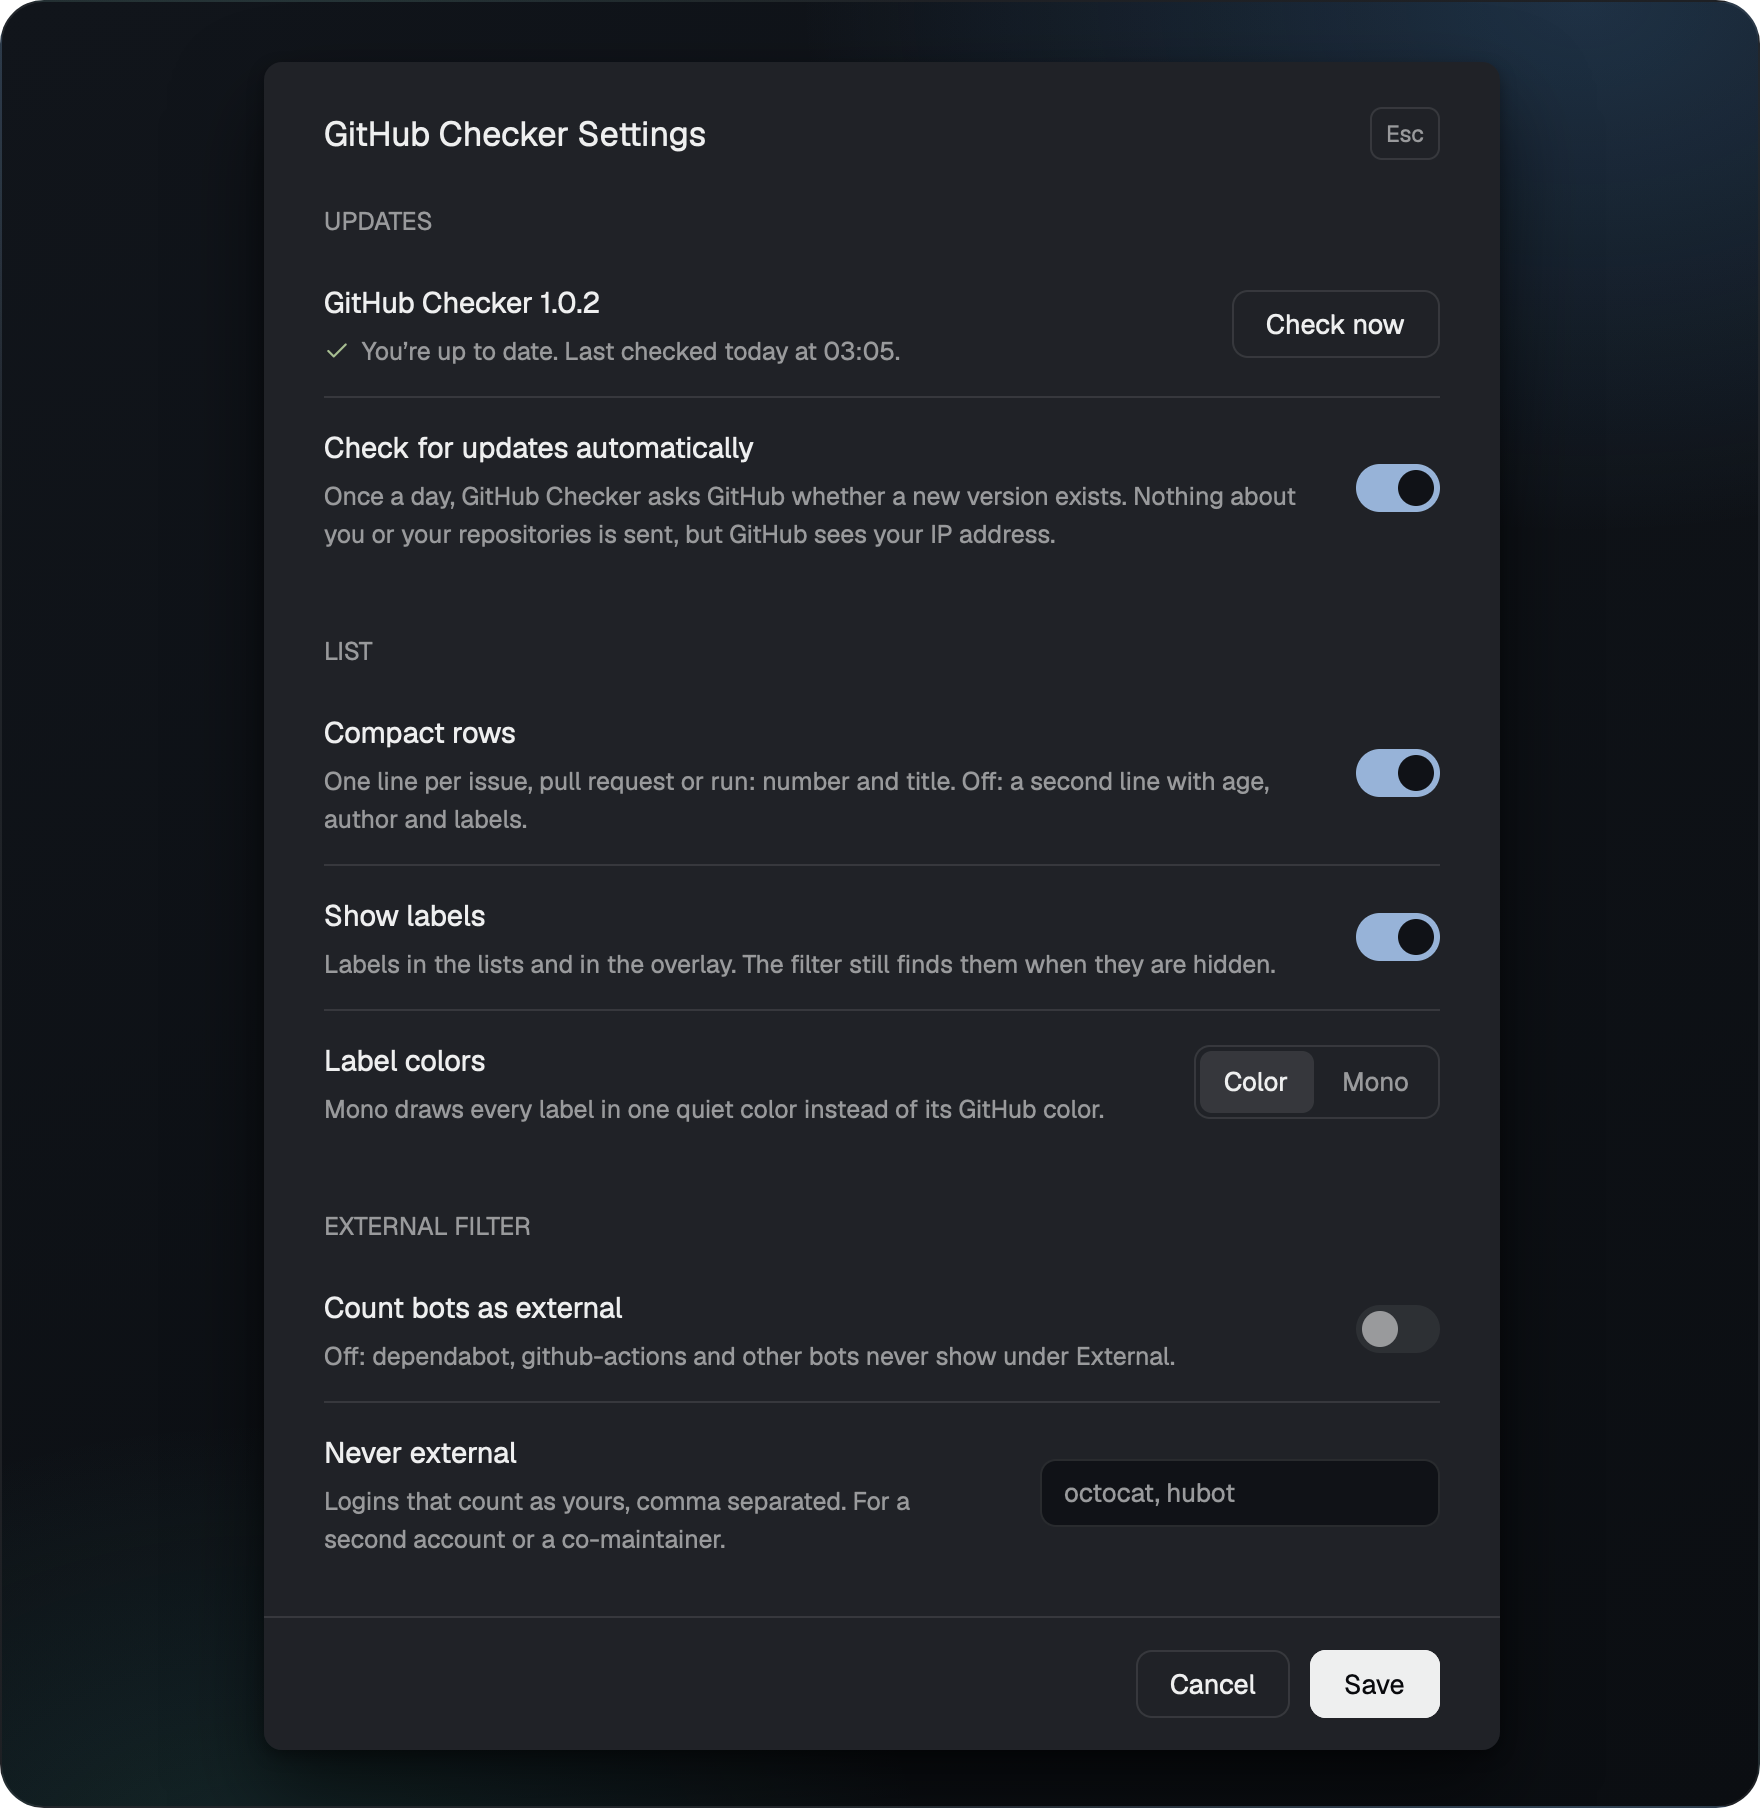
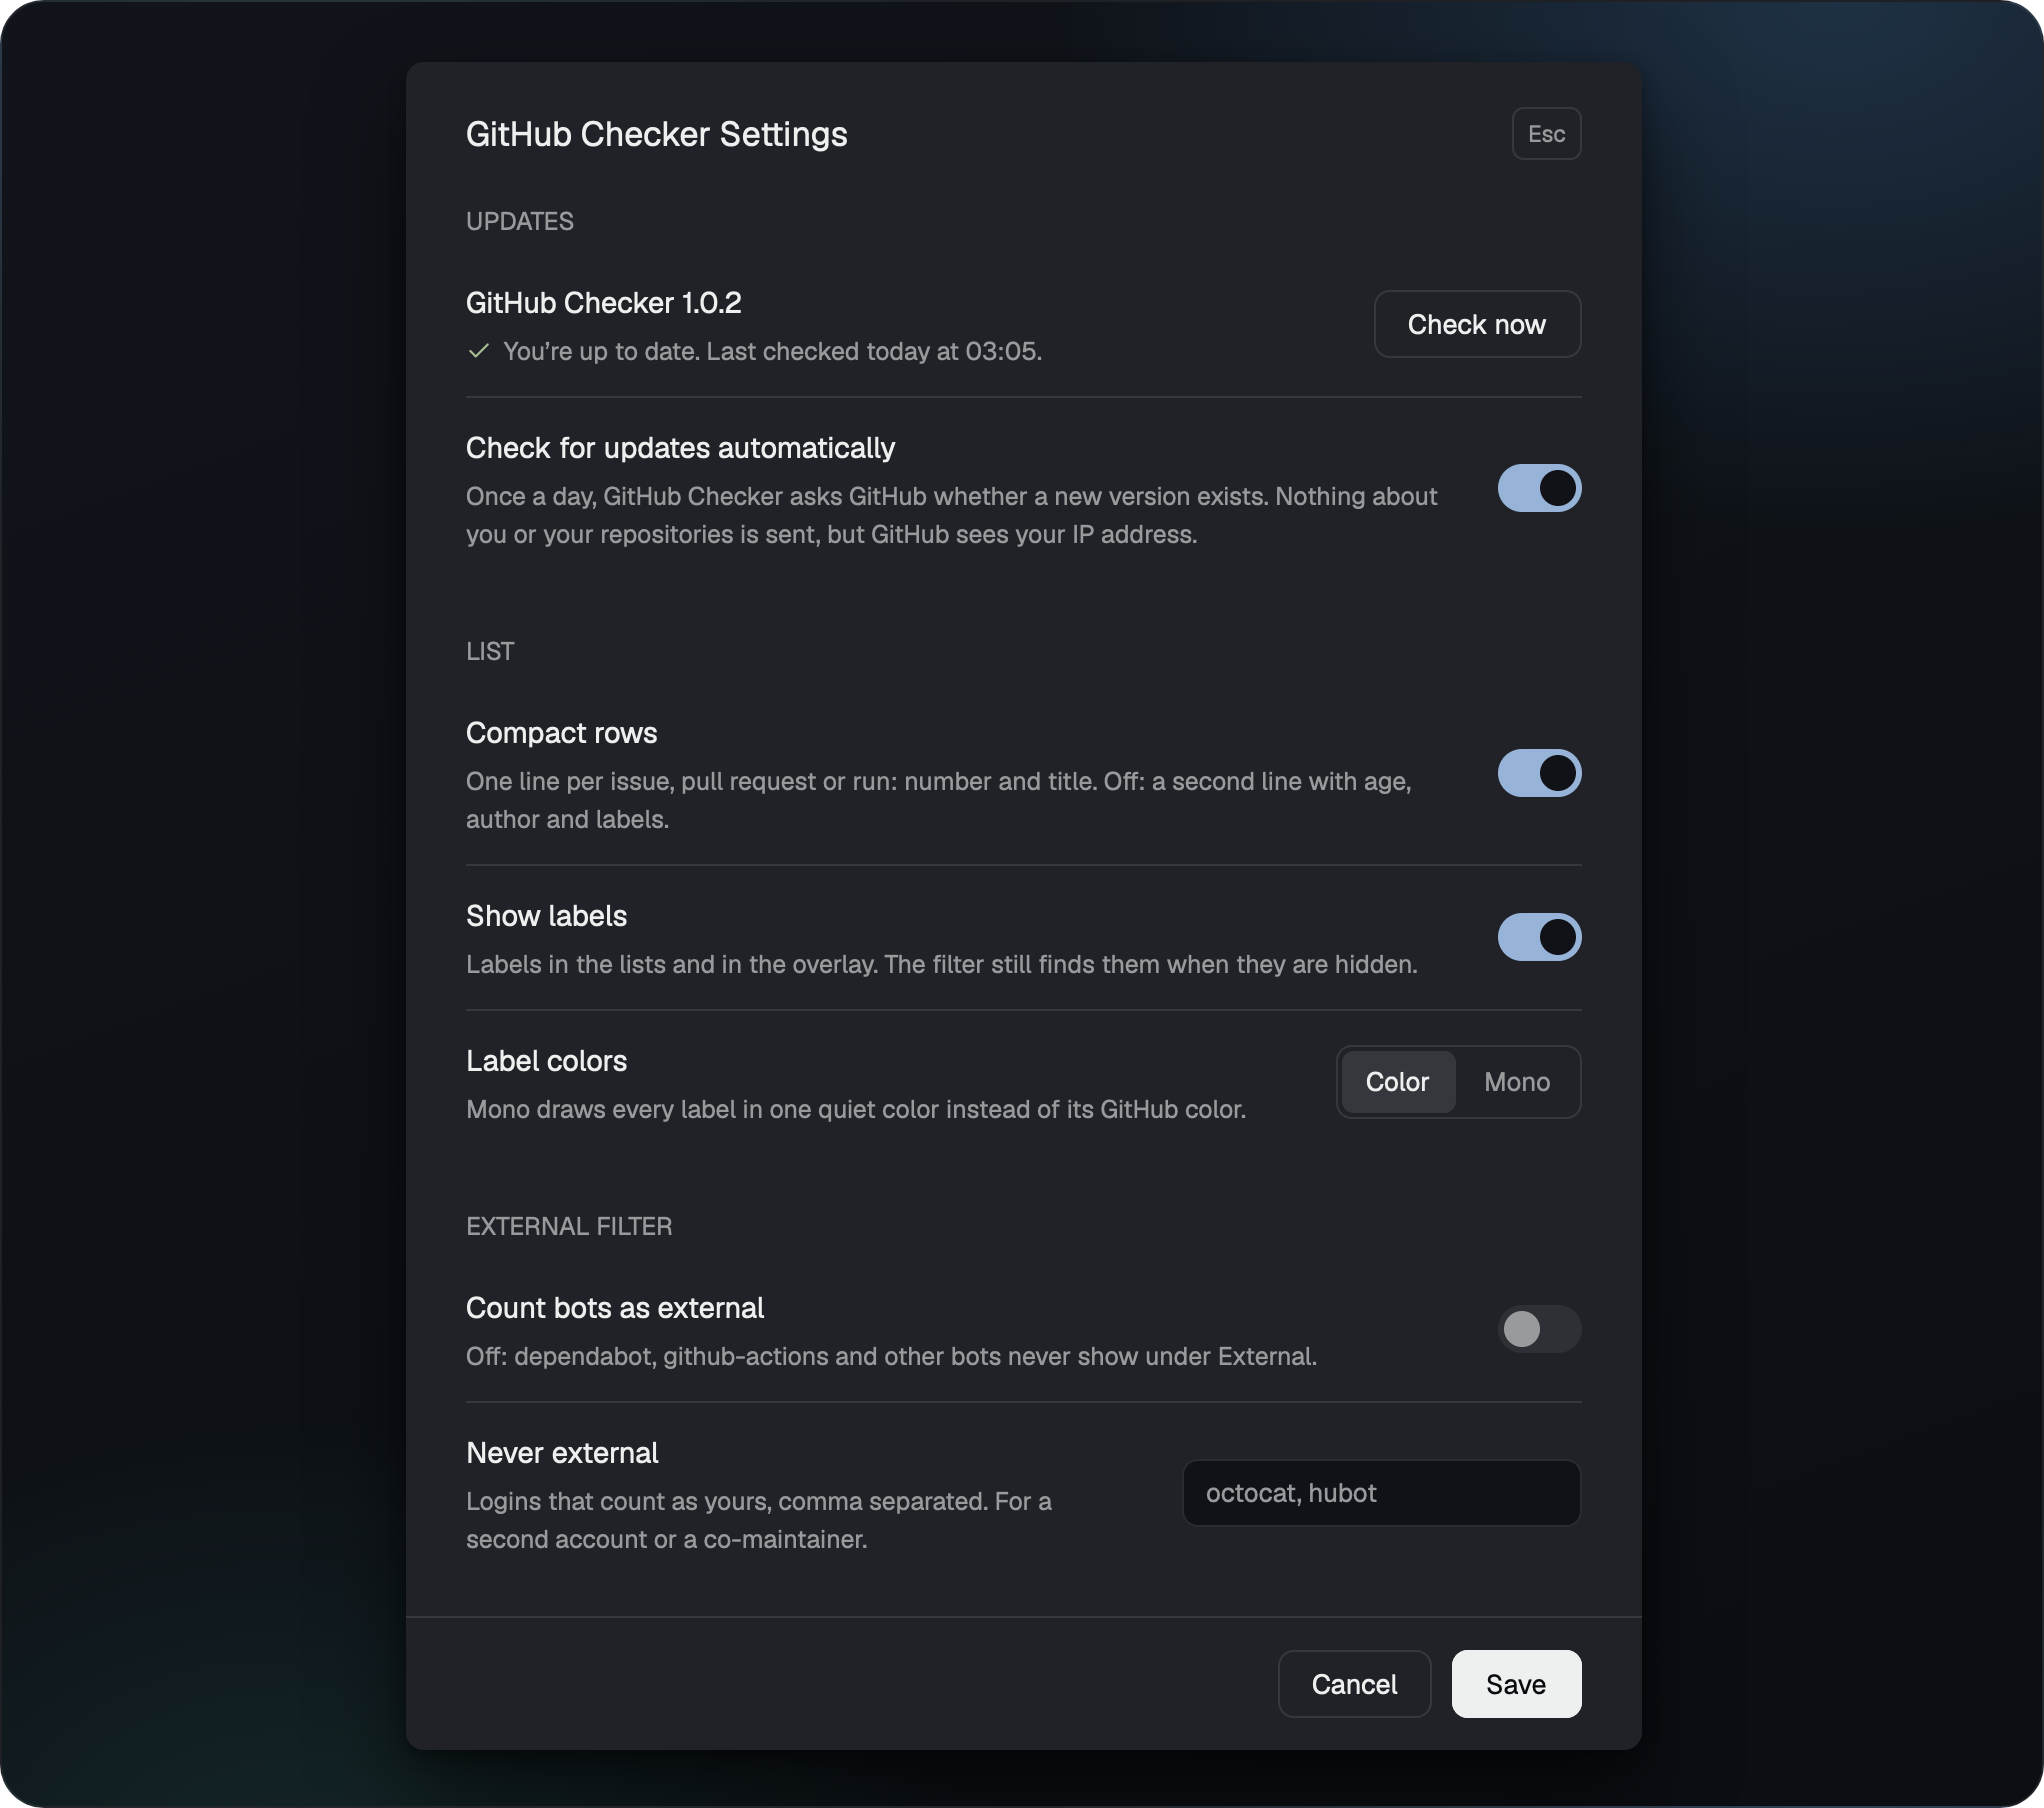
docs: README cards as wide as the hero, content at its own size
Every card is 2044 px wide like preview.png, with its panel, overlay or
dialog centered at its own size and more background around it. The
README embeds them like the hero, without a width of their own.

diff --git a/scripts/screenshots/cards/issues.html b/scripts/screenshots/cards/issues.html
@@ -2,9 +2,9 @@
 <html lang="en"><head><meta charset="utf-8"><title>Issues card</title>
 <link rel="stylesheet" href="card.css">
 <style>
-/* The panel alone: the Issues tab grouped by milestone; the list ends after its last whole row and joins the status bar. Shown at its own size (2x); rendered by shoot.sh at 880 x 571. */
-html, body { width: 880px; height: 571px; }
-.one { left: 218px; top: 30px; width: 444px; }
+/* The panel alone: the Issues tab grouped by milestone; the list ends after its last whole row and joins the status bar. Shown at its own size (2x); rendered by shoot.sh at 1022 x 571. */
+html, body { width: 1022px; height: 571px; }
+.one { left: 289px; top: 30px; width: 444px; }
 </style></head>
 <body><div class="frame">
   <div class="shot one"><img src="issues-panel-top.png" alt=""><img src="issues-panel-foot.png" alt=""></div>

diff --git a/scripts/screenshots/cards/actions.html b/scripts/screenshots/cards/actions.html
@@ -2,9 +2,9 @@
 <html lang="en"><head><meta charset="utf-8"><title>Actions card</title>
 <link rel="stylesheet" href="card.css">
 <style>
-/* The panel alone: the Actions tab; the list ends after its last whole row and joins the status bar. Shown at its own size (2x); rendered by shoot.sh at 880 x 573. */
-html, body { width: 880px; height: 573px; }
-.one { left: 218px; top: 30px; width: 444px; }
+/* The panel alone: the Actions tab; the list ends after its last whole row and joins the status bar. Shown at its own size (2x); rendered by shoot.sh at 1022 x 573. */
+html, body { width: 1022px; height: 573px; }
+.one { left: 289px; top: 30px; width: 444px; }
 </style></head>
 <body><div class="frame">
   <div class="shot one"><img src="actions-panel-top.png" alt=""><img src="actions-panel-foot.png" alt=""></div>

diff --git a/scripts/screenshots/cards/run-overlay.html b/scripts/screenshots/cards/run-overlay.html
@@ -2,9 +2,9 @@
 <html lang="en"><head><meta charset="utf-8"><title>Run overlay card</title>
 <link rel="stylesheet" href="card.css">
 <style>
-/* A failed run in its overlay: jobs, steps and the trimmed log. Shown at its own size (2x); rendered by shoot.sh at 880 x 739. */
-html, body { width: 880px; height: 739px; }
-.one { left: 71px; top: 30px; width: 738px; }
+/* A failed run in its overlay: jobs, steps and the trimmed log. Shown at its own size (2x); rendered by shoot.sh at 1022 x 739. */
+html, body { width: 1022px; height: 739px; }
+.one { left: 142px; top: 30px; width: 738px; }
 </style></head>
 <body><div class="frame">
   <div class="shot one cut"><img src="run-overlay.png" alt=""></div>

diff --git a/scripts/screenshots/cards/prs.html b/scripts/screenshots/cards/prs.html
@@ -2,9 +2,9 @@
 <html lang="en"><head><meta charset="utf-8"><title>Pull requests card</title>
 <link rel="stylesheet" href="card.css">
 <style>
-/* The panel alone: the PRs tab with checks and reviews. Shown at its own size (2x); rendered by shoot.sh at 880 x 662. */
-html, body { width: 880px; height: 662px; }
-.one { left: 218px; top: 30px; width: 444px; }
+/* The panel alone: the PRs tab with checks and reviews. Shown at its own size (2x); rendered by shoot.sh at 1022 x 662. */
+html, body { width: 1022px; height: 662px; }
+.one { left: 289px; top: 30px; width: 444px; }
 </style></head>
 <body><div class="frame">
   <div class="shot one"><img src="prs-panel.png" alt=""></div>

diff --git a/scripts/screenshots/cards/issue-overlay.html b/scripts/screenshots/cards/issue-overlay.html
@@ -2,9 +2,9 @@
 <html lang="en"><head><meta charset="utf-8"><title>Issue overlay card</title>
 <link rel="stylesheet" href="card.css">
 <style>
-/* An issue in its overlay, down to the comment box. Shown at its own size (2x); rendered by shoot.sh at 880 x 782. */
-html, body { width: 880px; height: 782px; }
-.one { left: 62px; top: 30px; width: 755px; }
+/* An issue in its overlay, down to the comment box. Shown at its own size (2x); rendered by shoot.sh at 1022 x 782. */
+html, body { width: 1022px; height: 782px; }
+.one { left: 133px; top: 30px; width: 755px; }
 </style></head>
 <body><div class="frame">
   <div class="shot one cut"><img src="issue-overlay.png" alt=""></div>

diff --git a/scripts/screenshots/cards/pr-overlay.html b/scripts/screenshots/cards/pr-overlay.html
@@ -2,9 +2,9 @@
 <html lang="en"><head><meta charset="utf-8"><title>Pull request overlay card</title>
 <link rel="stylesheet" href="card.css">
 <style>
-/* A pull request in its overlay with the merge box. Shown at its own size (2x); rendered by shoot.sh at 880 x 820. */
-html, body { width: 880px; height: 820px; }
-.one { left: 62px; top: 30px; width: 755px; }
+/* A pull request in its overlay with the merge box. Shown at its own size (2x); rendered by shoot.sh at 1022 x 820. */
+html, body { width: 1022px; height: 820px; }
+.one { left: 133px; top: 30px; width: 755px; }
 </style></head>
 <body><div class="frame">
   <div class="shot one"><img src="pr-overlay.png" alt=""></div>

diff --git a/scripts/screenshots/cards/settings.html b/scripts/screenshots/cards/settings.html
@@ -2,9 +2,9 @@
 <html lang="en"><head><meta charset="utf-8"><title>Settings card</title>
 <link rel="stylesheet" href="card.css">
 <style>
-/* The Settings dialog. Shown at its own size (2x); rendered by shoot.sh at 880 x 904. */
-html, body { width: 880px; height: 904px; }
-.one { left: 131px; top: 30px; width: 618px; }
+/* The Settings dialog. Shown at its own size (2x); rendered by shoot.sh at 1022 x 904. */
+html, body { width: 1022px; height: 904px; }
+.one { left: 202px; top: 30px; width: 618px; }
 </style></head>
 <body><div class="frame">
   <div class="shot one"><img src="settings-dialog.png" alt=""></div>

diff --git a/README.md b/README.md
@@ -40,9 +40,9 @@ Then click `GitHub` in the tab bar.
 - **Milestones:** one switch groups the list by milestone, each with its due date and progress (`5 / 8 done`); issues without one come last.
 - **Filter** by title, number, author or label.
 
-<p align="center"><img src="screenshots/issues.png" width="880" alt="The Issues tab grouped by milestone"></p>
+![The Issues tab grouped by milestone](screenshots/issues.png)
 
-<p align="center"><img src="screenshots/issue-overlay.png" width="880" alt="An issue in its overlay"></p>
+![An issue in its overlay](screenshots/issue-overlay.png)
 
 ### Pull requests
 
@@ -52,9 +52,9 @@ Then click `GitHub` in the tab bar.
 - **Approve and run** for workflow runs of first-time contributors and forks, with a second click to confirm.
 - **Merge box:** conflicts, checks and review in one place, only the merge methods the repository allows, Delete branch, and a second click to confirm. Locked for drafts, conflicts and failed checks.
 
-<p align="center"><img src="screenshots/prs.png" width="880" alt="The PRs tab with checks and reviews"></p>
+![The PRs tab with checks and reviews](screenshots/prs.png)
 
-<p align="center"><img src="screenshots/pr-overlay.png" width="880" alt="A pull request with its merge box"></p>
+![A pull request with its merge box](screenshots/pr-overlay.png)
 
 ### Actions
 
@@ -62,16 +62,16 @@ Then click `GitHub` in the tab bar.
 - **The tab's dot:** yellow while a run is in progress, red when the latest run on the default branch failed.
 - **Run overlay:** jobs on the left, steps and the trimmed failure log on the right; **Re-run failed jobs**, **Re-run all**, or **Cancel run** while it runs.
 
-<p align="center"><img src="screenshots/actions.png" width="880" alt="The Actions tab"></p>
+![The Actions tab](screenshots/actions.png)
 
-<p align="center"><img src="screenshots/run-overlay.png" width="880" alt="A failed run with its jobs, steps and log"></p>
+![A failed run with its jobs, steps and log](screenshots/run-overlay.png)
 
 ### Settings
 
 - **The gear** opens the settings: compact rows, labels shown or hidden, in color or mono, and who counts as external.
 - **Updates:** once a day the panel asks GitHub for a new release. The gear turns gold when one is out, and the dialog tells you what to ask your agent.
 
-<p align="center"><img src="screenshots/settings.png" width="880" alt="The Settings dialog"></p>
+![The Settings dialog](screenshots/settings.png)
 
 ### And
 
